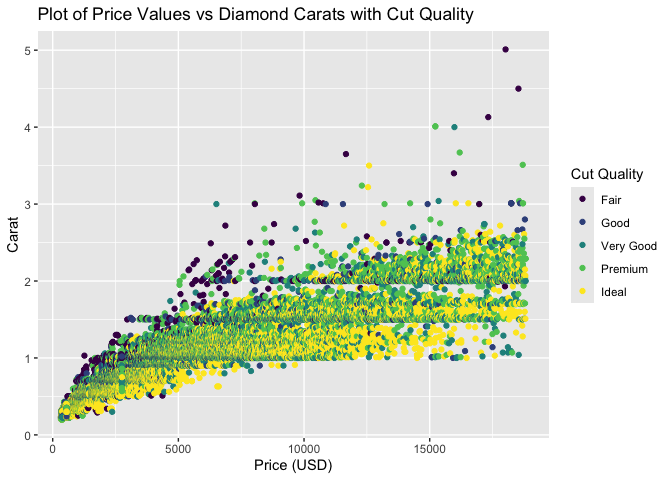
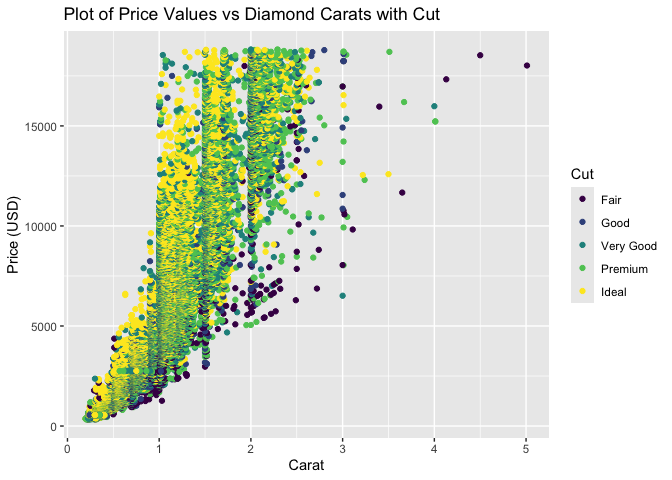
resubmit c00

diff --git a/challenges/c00-diamonds-assignment.md b/challenges/c00-diamonds-assignment.md
@@ -96,14 +96,14 @@ document your observations.
 *Hint*: We learned how to do this in `e-vis00-basics`!
 
 ``` r
-## TASK: Plot `price` vs `carat` below
-
-ggplot(data = diamonds, aes(x = price, y = carat)) +
+## Plot `price` vs `carat` below
+diamonds %>%
+  ggplot(aes(carat, price)) +
   geom_point() +
   labs(
     title = "Plot of Price Values vs Diamond Carats",
-    x = "Price (USD)",
-    y = "Carat"
+    x = "Carat",
+    y = "Price (USD)"
   )
 ```
 
@@ -131,15 +131,15 @@ ggplot(data = diamonds, aes(x = price, y = carat)) +
 ### **q2** Create a visualization showing variables `carat`, `price`, and `cut` simultaneously. Experiment with which variable you assign to which aesthetic (`x`, `y`, etc.) to find an effective visual.
 
 ``` r
-## TASK: Plot `price`, `carat`, and `cut` below
-
-ggplot(data = diamonds, aes(x = price, y = carat, color = cut)) +
+## Plot `price`, `carat`, and `cut` below
+diamonds %>%
+  ggplot(aes(carat, price, color = cut)) +
   geom_point() +
   labs(
-    title = "Plot of Price Values vs Diamond Carats with Cut Quality",
-    x = "Price (USD)",
-    y = "Carat",
-    color = "Cut Quality"
+    title = "Plot of Price Values vs Diamond Carats with Cut",
+    x = "Carat",
+    y = "Price (USD)",
+    color = "Cut"
   )
 ```
 
